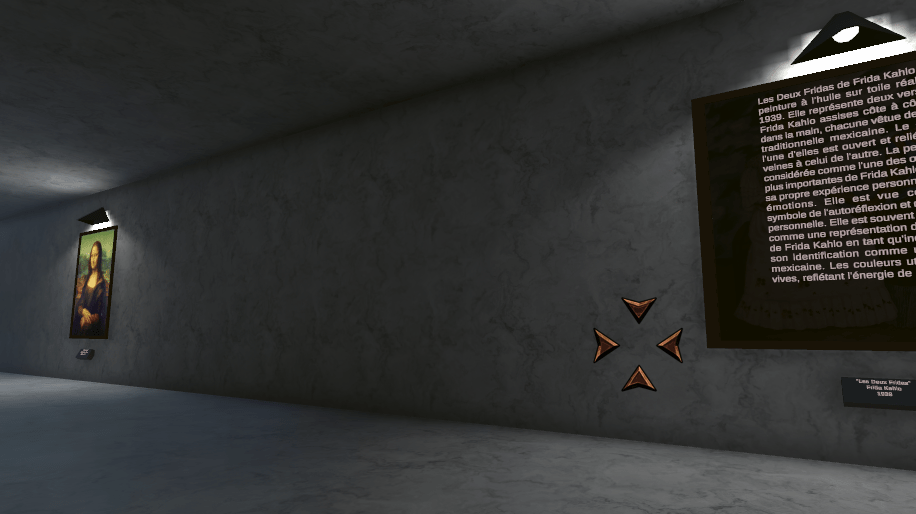
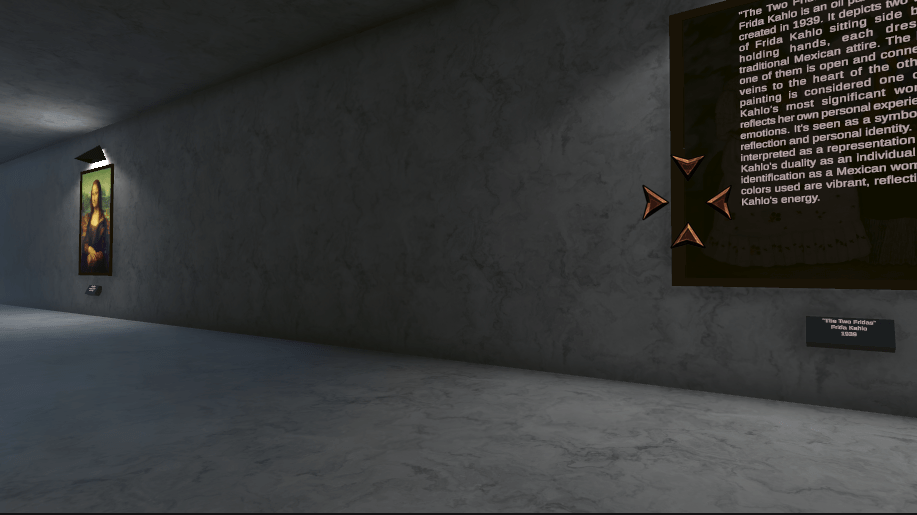
English translation

diff --git a/Assets/Scripts/DetectPlayerVersion.cs b/Assets/Scripts/DetectPlayerVersion.cs
@@ -6,6 +6,7 @@ public class DetectPlayerVersion : MonoBehaviour
     [SerializeField] private InputActionReference _vrHeadsetTrackingState;
     [SerializeField] private GameObject _player3D;
     [SerializeField] private GameObject _playerVR;
+    [SerializeField] private GameObject[] _vrRayInteractors;
     private float _timePassed = 0f;
 
     private void Awake()
@@ -16,6 +17,9 @@ public class DetectPlayerVersion : MonoBehaviour
 
             The other advantage of having at least one active player version is that while we are 
             waiting for the detection to occur, we have something to look at instead of a black screen.
+    
+            Note that the VR interactors are inactive until the VR version is activated. The reason 
+            being that otherwise they show for a few seconds for the 3D version and I'd rather they don't.
         */
         _playerVR.SetActive(true);
     }
@@ -46,6 +50,8 @@ public class DetectPlayerVersion : MonoBehaviour
     private void ActivateVR()
     {
         _playerVR.transform.localPosition = new Vector3(0f, -1f, 0f);
+        _vrRayInteractors[0].SetActive(true);
+        _vrRayInteractors[1].SetActive(true);
         _playerVR.SetActive(true);
         _player3D.SetActive(false);
     }

diff --git a/Assets/Scripts/DisplayPainting.cs b/Assets/Scripts/DisplayPainting.cs
@@ -97,6 +97,6 @@ public class DisplayPainting : MonoBehaviour
 
     private void GetCursorAppearanceScript()
     {
-        _cursorAppearance = GameObject.Find("App Manager").GetComponent<CursorAppearance>();
+        _cursorAppearance = GameObject.Find("Cursors").GetComponent<CursorAppearance>();
     }
 }

diff --git a/Assets/Scripts/UserInput.cs b/Assets/Scripts/UserInput.cs
@@ -12,7 +12,7 @@ public class UserInput : MonoBehaviour
 
     private void Awake()
     {
-        _cursorAppearance = GameObject.Find("App Manager").GetComponent<CursorAppearance>();
+        _cursorAppearance = GameObject.Find("Cursors").GetComponent<CursorAppearance>();
     }
 
     private void Start()
